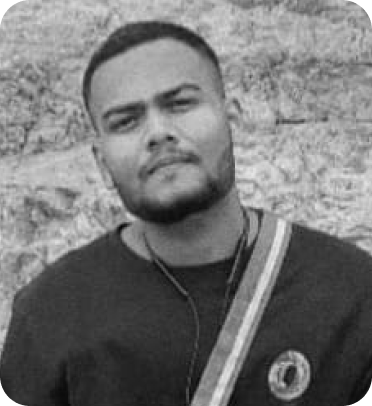
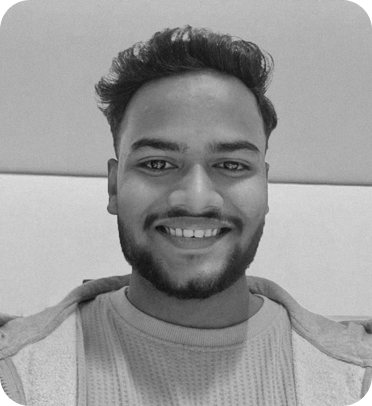
changed about images and designation

diff --git a/src/app/components/common/Team.tsx b/src/app/components/common/Team.tsx
@@ -33,22 +33,22 @@ function Team() {
           <div className=" mt-2">
             <p className=" font-medium max-md:text-sm">Amit kumar Gothwal</p>
             <p className=" font-sofiaSans font-light max-md:text-xs -mt-1 text-sm">
-              Founder, Creative Director
+              Sr. Brand Designer
             </p>
           </div>
         </div>
         <div>
           <Image
-            src={"/team/Radha.png"}
+            src={"/team/HinaSharma.png"}
             width={500}
             height={500}
             className=" md:w-[186px] rounded-2xl md:h-[203px] w-full h-full"
-            alt="Radha"
+            alt="Hina Sharma"
           />
           <div className=" mt-2">
             <p className=" font-medium max-md:text-sm">Radha</p>
             <p className=" font-sofiaSans font-light max-md:text-xs -mt-1 text-sm">
-              Creative Director - Copy
+              Creative Director
             </p>
           </div>
         </div>
